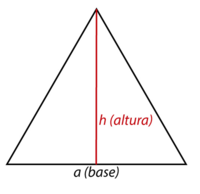
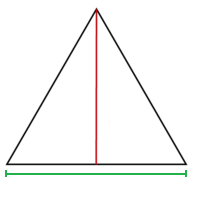
Añadiendo cambios imagenes 2D

Changed region(s): [[0.0, 0.0309, 0.96, 0.9278]]

diff --git a/figuras2d/figuras2d.js b/figuras2d/figuras2d.js
@@ -6,7 +6,7 @@ document.addEventListener('DOMContentLoaded', () => {
     const volverBtn = document.getElementById('volverBtn');
     if (volverBtn) {
         volverBtn.addEventListener('click', () => {
-            window.location.href = '../index.html';
+            history.back();
         });
     }
 
@@ -57,8 +57,47 @@ document.addEventListener('DOMContentLoaded', () => {
     // 🔹 Función para validar números positivos
     // ============================
     function validarNumero(valor) {
-        const num = parseFloat(valor);
-        return !isNaN(num) && num >= 0;
+        // Valida que el valor sea un número positivo (sin letras)
+        const regexNumero = /^\d*\.?\d*$/; // Solo números y punto decimal
+        return regexNumero.test(valor) && parseFloat(valor) >= 0;
+    }
+
+    //Para el circulo (Cambiar la letra en tiempo real)
+    const inputRadio = document.getElementById('radio');
+    const textoRadio = document.getElementById('textoRadio');
+
+    if (inputRadio && textoRadio) {
+        inputRadio.addEventListener('input', () => {
+            textoRadio.textContent = 'r: ' + inputRadio.value;
+        });
+    }
+    //Para el Cuadrado (Cambiar la letra en tiempo real)
+    const inputLado = document.getElementById('lado');
+    const textoLado = document.getElementById('textoLado');
+
+    if (inputLado && textoLado) {
+        inputLado.addEventListener('input', () => {
+            textoLado.textContent = 'l: ' + inputLado.value;
+        });
+    }
+
+    //Para el Triangulo (Cambiar la letra en tiempo real)
+    const inputBase = document.getElementById('base');
+    const textoBase = document.getElementById('textoBase');
+
+    const inputAltura = document.getElementById('altura');
+    const textoAltura = document.getElementById('textoAltura');
+
+    if (inputBase && textoBase) {
+        inputBase.addEventListener('input', () => {
+            textoBase.textContent = 'b: ' + inputBase.value;
+        });
+    }
+
+    if (inputAltura && textoAltura) {
+        inputAltura.addEventListener('input', () => {
+            textoAltura.textContent = 'h: ' + inputAltura.value;
+        });
     }
 
     // ============================

diff --git a/figuras2d/triangulo.html b/figuras2d/triangulo.html
@@ -12,7 +12,31 @@
         <h1>Área y Perímetro del Triángulo</h1>
 
         <!-- Imagen del triángulo -->
-        <img src="../imagenes/Triangulo.png" alt="Triángulo" style="width:150px;margin-bottom:1rem;">
+        <div id="trianguloContenedor" style="position: relative; width: 200px; height: 200px; margin: 0 auto 1rem auto; text-align: center;">
+            <img src="../imagenes/Triangulo.png" alt="Triángulo" style="width: 100%; height: 100%; display: block;">
+            
+            <div id="textoBase" style="
+                position: absolute;
+                top: 90%;  /* ajusta para posicionar */
+                left: 50%;
+                transform: translate(-50%, -50%);
+                font-size: 0.9rem;
+                font-weight: bold;
+                color: green;
+                pointer-events: none;
+            ">b: 0</div>
+
+            <div id="textoAltura" style="
+                position: absolute;
+                top: 50%; /* ajusta para posicionar */
+                left: 50%;
+                transform: translate(-50%, -50%);
+                font-size: 0.9rem;
+                font-weight: bold;
+                color: red;
+                pointer-events: none;
+            ">h: 0</div>
+        </div>
 
         <!-- Formulario de ingreso -->
         <form id="trianguloForm">

diff --git a/figuras2d/circulo.html b/figuras2d/circulo.html
@@ -12,12 +12,25 @@
         <h1>Área y Perímetro del Círculo</h1>
 
         <!-- Imagen del círculo -->
-        <img src="../imagenes/Circulo.png" alt="Círculo" style="width:150px;margin-bottom:1rem;">
+        <div id="imagenContenedor" style="text-align: center; margin-bottom: 1rem;">
+            <img src="../imagenes/Circulo.png" alt="Círculo" style="width:200px; height:200px; display: inline-block;">
+            <div id="textoRadio" style="
+                position: absolute;
+                top: 23%;
+                left: 50%;
+                transform: translate(-50%, -50%);
+                font-size: 12px;
+                font-weight: bold;
+                color: red;
+                pointer-events: none;
+            "></div>
+        </div>
 
         <!-- Formulario de ingreso -->
         <form id="circuloForm">
             <label for="radio">Radio (r):</label>
-            <input type="number" id="radio" placeholder="Ingresa el radio" required>
+            <input type="text" id="radio" placeholder="Ingresa el radio" required>
+            <div id="errorRadio" class="error-message" style="display:none;">Por favor ingresa solo números válidos</div>
             
             <div class="acciones">
                 <button type="button" id="calcularArea">Calcular Área</button>

diff --git a/figuras2d/cuadrado.html b/figuras2d/cuadrado.html
@@ -12,7 +12,19 @@
         <h1>Área y Perímetro del Cuadrado</h1>
 
         <!-- Imagen del cuadrado -->
-        <img src="../imagenes/Cuadrado.png" alt="Cuadrado" style="width:150px;margin-bottom:1rem;">
+        <div id="imagenCuadradoContenedor" style="position: relative; text-align: center; width: 200px; margin: 0 auto 1rem auto;">
+            <img src="../imagenes/Cuadrado.png" alt="Cuadrado" style="width: 200px; height: 200px; display: block;">
+            <div id="textoLado" style="
+                position: absolute;
+                top: 92%;
+                left: 50%;
+                transform: translate(-50%, -50%);
+                font-size: 12px;
+                font-weight: bold;
+                color: red;
+                pointer-events: none;
+            ">Lado: 0</div>
+          </div>
 
         <!-- Formulario de ingreso -->
         <form id="cuadradoForm">

diff --git a/index.html b/index.html
@@ -16,8 +16,8 @@
             <a href="autenticacion/login.html" id="loginBtn" class="btn">Iniciar Sesión</a>
             <a href="autenticacion/registro.html" id="registroBtn" class="btn">Registrar Usuario</a>
             <button id="logoutBtn">Cerrar Sesión</button>
-            <button id="eliminarBtn">Eliminar Usuario</button>
-        </div>
+            <button id="deleteBtn">Eliminar Usuario</button>
+        </div>  
 
         <section class="tarjetas">
             <a class="tarjeta" href="figuras2d/figuras2d.html">

diff --git a/figuras2d/figuras2d.html b/figuras2d/figuras2d.html
@@ -12,7 +12,6 @@
 
         <div class="acciones">
             <button id="volverBtn">Volver</button>
-            <button id="historialBtn">Ver Historial</button>
         </div>
 
         <div class="tarjetas">
@@ -26,6 +25,8 @@
                 Área y Perímetro de Triángulo
             </div>
         </div>
+
+        
     </div>
 
     <script src="../script.js"></script>
